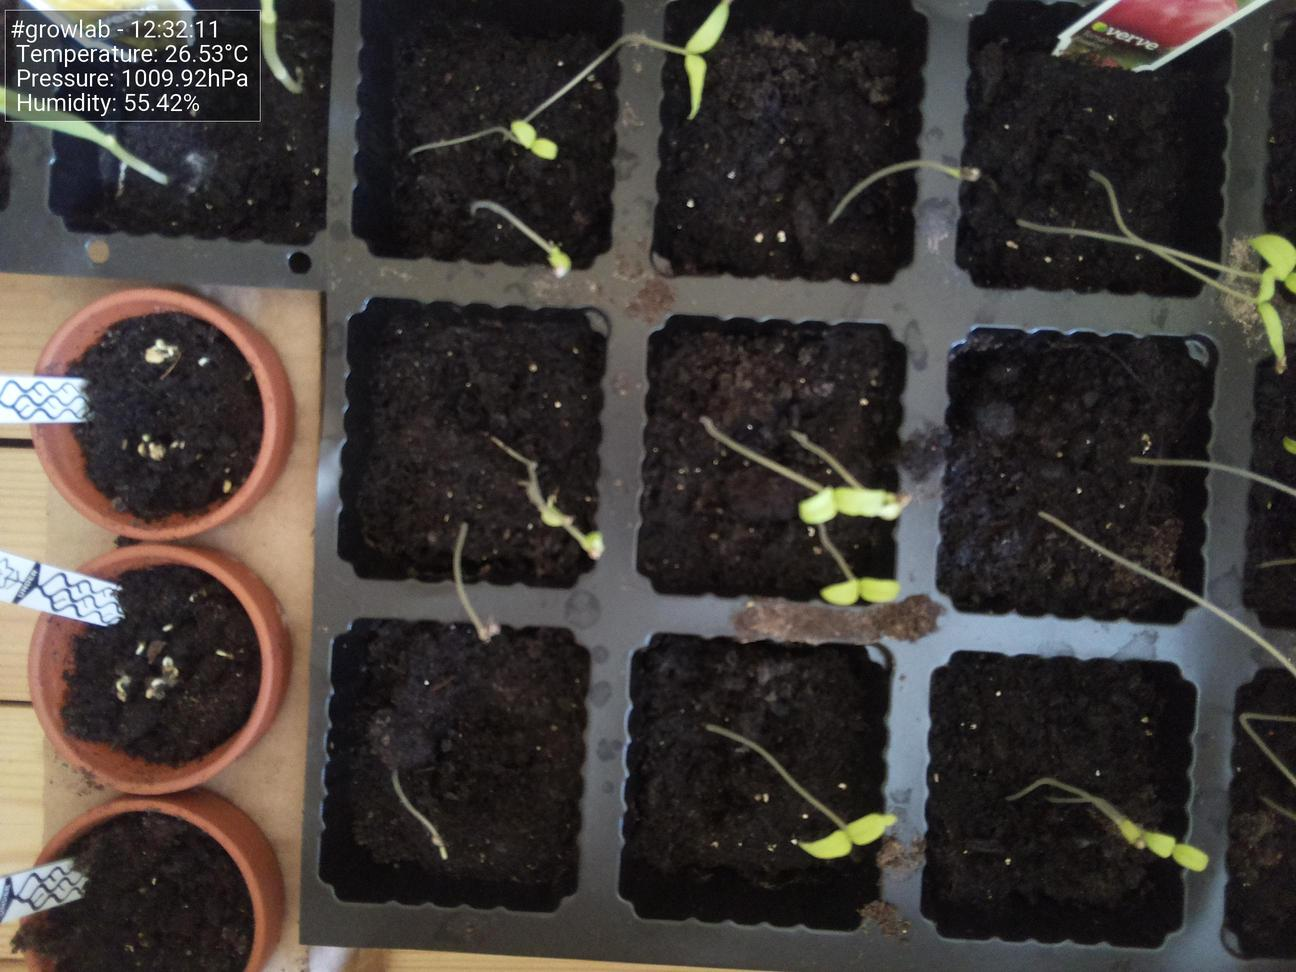
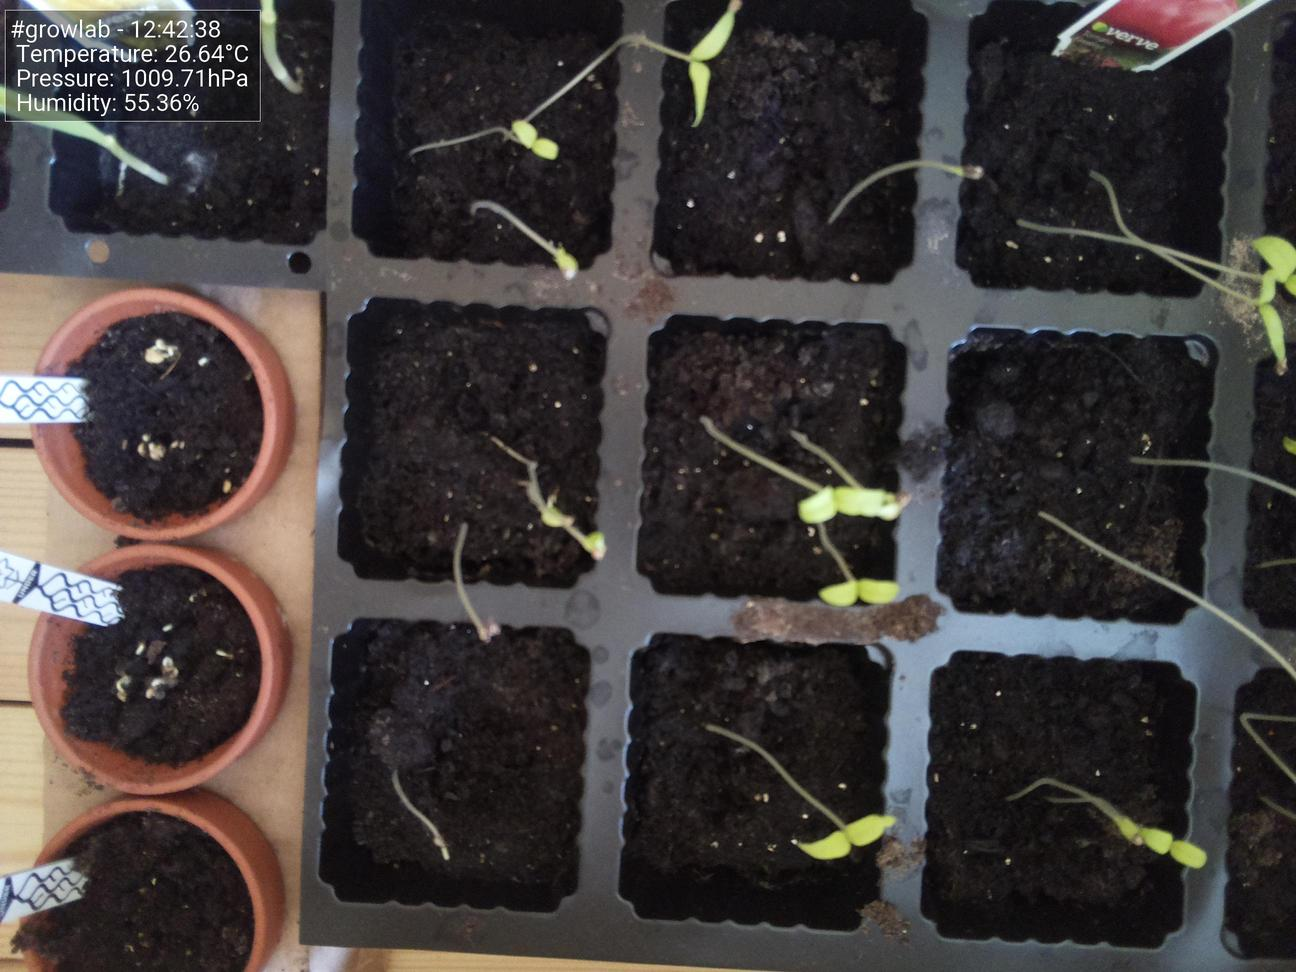
Update images at Tue  1 Jun 12:42:55 BST 2021

diff --git a/index.html b/index.html
@@ -47,19 +47,19 @@
                         <tbody>
                             <tr>
                                 <td>Time</td>
-                                <td>12:32:11</td>
+                                <td>12:42:38</td>
                             </tr>
                             <tr>
                                 <td>Temperature</td>
-                                <td>26.53°C</td>
+                                <td>26.64°C</td>
                             </tr>
                             <tr>
                                 <td>Humidity</td>
-                                <td>55.42%</td>
+                                <td>55.36%</td>
                             </tr>
                             <tr>
                                 <td>Pressure</td>
-                                <td>1009.92hPa</td>
+                                <td>1009.71hPa</td>
                             </tr>
                         </tbody>
                     </table>
@@ -67,7 +67,7 @@
 
                 <h5>Latest image</h5>
                 <div style="width: 85%;">
-                            <img class="figure-img img-fluid rounded" src="./preview.jpg?uid=1622547146.3191152">
+                            <img class="figure-img img-fluid rounded" src="./preview.jpg?uid=1622547774.465112">
                 </div>
             </div>
         </div>
